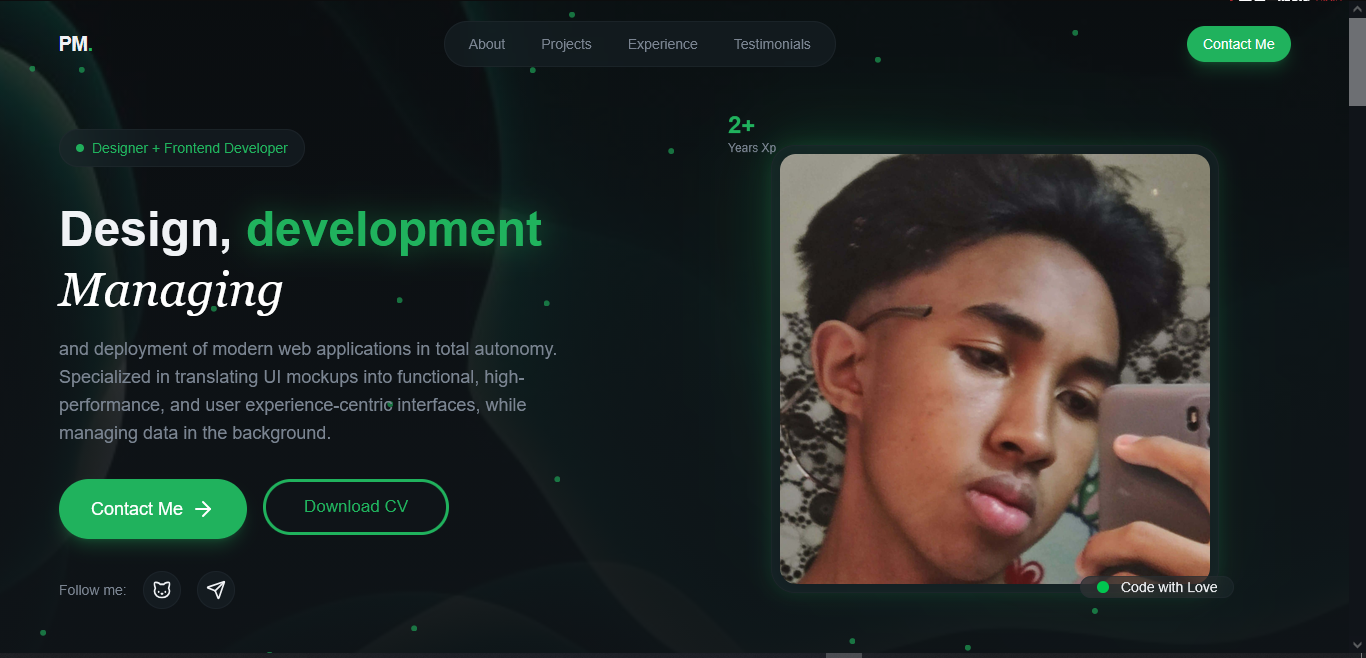
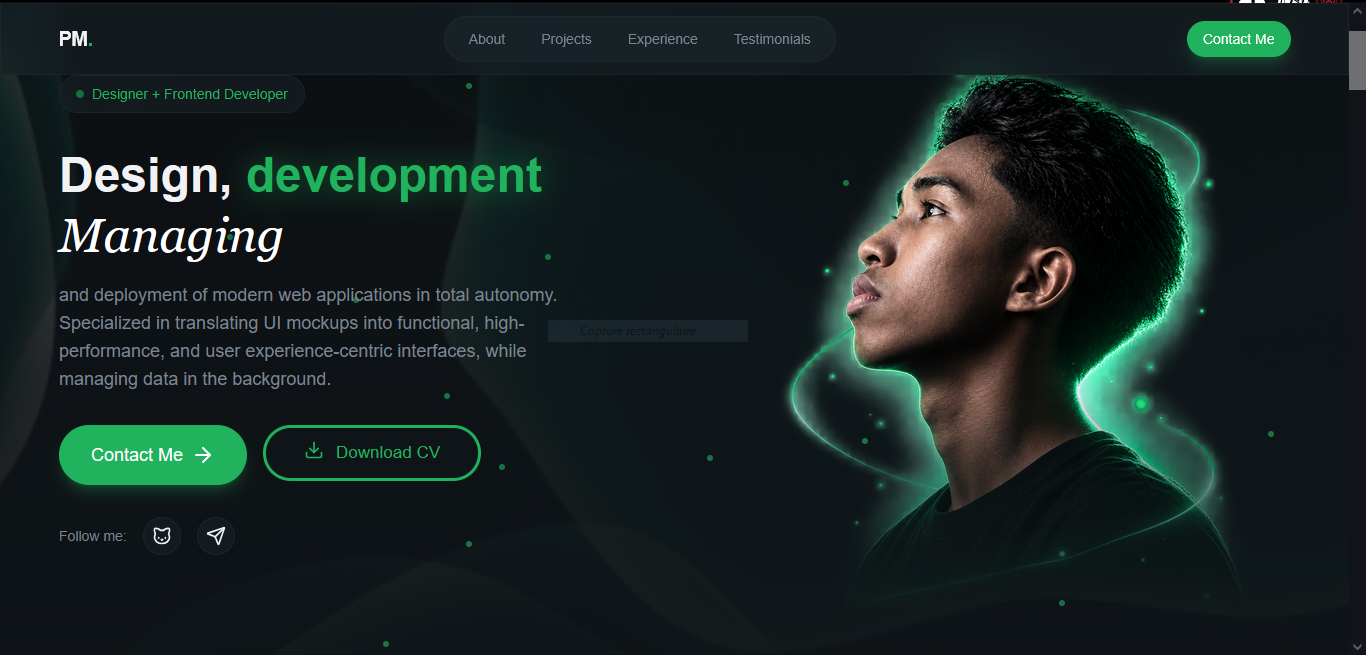
update Herosection, and remanage ProjectsSection

diff --git a/src/sections/Hero.jsx b/src/sections/Hero.jsx
@@ -1,9 +1,11 @@
 import { useMemo } from 'react';
 import { Button } from "@/components/Button";
-import { ArrowRight, Cat, Send, ChevronDown,Download } from 'lucide-react';
+import { ArrowRight, Cat, Send, ChevronDown, Download } from 'lucide-react';
 import { MagicButton } from "@/assets/MagicButton.jsx";
 
 const skills = [
+  "Strong Algo",
+  "Teamwork",
   "React",
   "Javascript",
   "ES 6+",
@@ -11,7 +13,7 @@ const skills = [
   "PHP",
   "Figma",
   "AI assist",
-  "Love",
+  "Typescript",
   "Git",
   "Github Actions"
 ]
@@ -115,32 +117,11 @@ export const Hero = () => {
         {/* Right column - Profile image*/}
         <div className='relative animate-fade-in animation-delay-300'>
           {/* Profile image */}
-          <div className='relative max-w-md mx-auto'>
-            <div
-              className="absolute inset-0 
-              rounded-3xl bg-gradient-to-br 
-              from-primary/30 via-transparent 
-              to-primary/10 blur-2xl animate-pulse"
-            />
-            <div className='relative glass rounded-3xl p-2 glow-border'>
-              <img
-                src='/profile-picture.jpg'
-                alt='Tsiresy RAZAKARIASA'
-                className='w-full aspext=[4/5] object-cover rounded-2xl'
-              />
-              {/* Floating badge */}
-              <div className='absolute -bottom-4 -right-4 glass rounded-xl px-4 px-3 animate-float'>
-                <div className='flex items-center gap-3'>
-                  <div className='w-3 h-3 bg-green-500 rounded-full animate-pulse' />
-                  <span className='text-sm font-medium'>Code with Love</span>
-                </div>
-              </div>
-              {/* Stats badge */}
-              <div className='absolute -top-10 -left-15 rounded-xl px-4 py-3 animate-float animate-delay-500'>
-                <div className='text-2xl font-bold text-primary'>2+</div>
-                <div className='text-xs text-muted-foreground'>Years Xp</div>
-              </div>
-            </div>
+          <div className='relative max-w-full'>
+            <img src="Hero/Portfolio_test3.png" alt="Myface"
+              className='object-contain
+    [mask-image:linear-gradient(to_bottom,black_60%,transparent_100%)]
+    [-webkit-mask-image:linear-gradient(to_bottom,black_60%,transparent_100%)]'/>
           </div>
         </div>
       </div>

diff --git a/src/sections/Projects.jsx b/src/sections/Projects.jsx
@@ -16,7 +16,7 @@ const projects = [
     image: "/projects/e_commerce.PNG",
     tags: ["React", "Css", "JavaScript"],
     link: "#",
-    github: "#"
+    github: "https://github.com/PiouPiouXt/Ecommerce-Projects.git"
   },
   {
     title: "My Portfolio",
@@ -27,12 +27,12 @@ const projects = [
     github: "https://github.com/PiouPiouXt/Portfolio.git"
   },
   {
-    title: "Glassmorphism Login UI",
-    description: "Showing my design skills with a glassmorphism login UI design using CSS.",
-    image: "/projects/Login_glassmorphism.PNG",
-    tags: ["Html", "Css"],
+    title: "Restaurant manager",
+    description: "restaurant management system built with React Typescript.",
+    image: "/projects/Restaurant_manager.PNG",
+    tags: ["React", "Typescript"],
     link: "#",
-    github: "https://github.com/PiouPiouXt/Glassmorphism-Login-UI.git"
+    github: "https://github.com/PiouPiouXt/Restaurant-manager.git"
   }
 
 ];
@@ -69,7 +69,7 @@ export const Projects = () => {
                 <img
                   src={project.image}
                   alt={project.title}
-                  className="w-full h-full object-cover transition-transform duration-700 group-hover:scale-110"
+                  className="w-full h-full object-cover transition-transform duration-700 group-hover:scale-105"
                 />
                 <div
                   className="absolute inset-0 bg-gradient-to-t from-card 

diff --git a/problem.md b/problem.md
@@ -1,5 +1,8 @@
-## 2 - Design
-Upgrade the overall design: Mostly the Hero section with my face
+## 1 - Icons 
+add library icon with social media icon: and solve projects github icon, and more...
+
+## 2 - Top scroll button
+add topscroll button *bottom right position* to scroll -> top of the page
 
 ## 3 - Solve or remove Testimonials 
 Didn't have any Testimonials now
